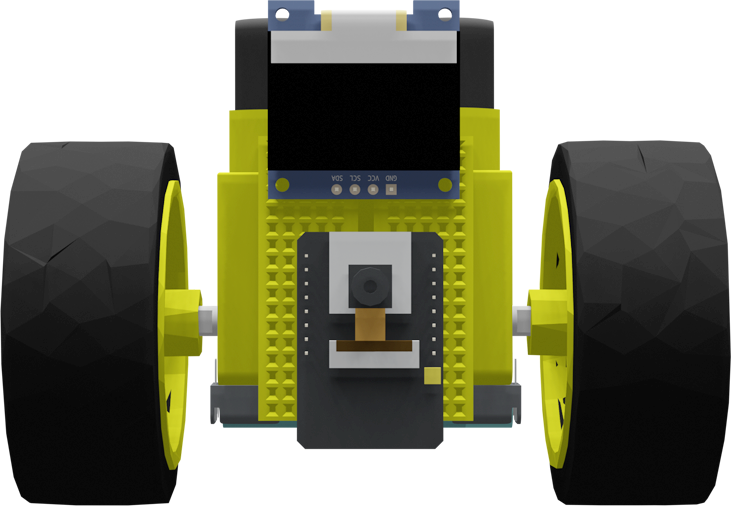
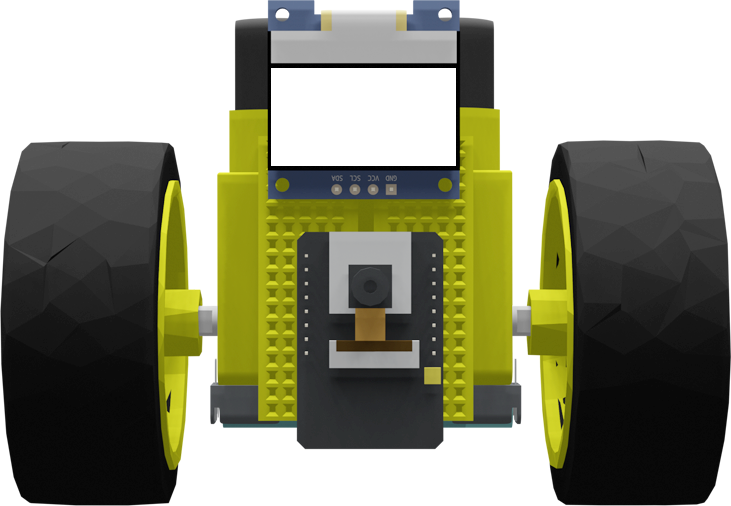
front-end: add screen

Changed region(s): [[0.3611, 0.1186, 0.632, 0.3261]]

diff --git a/front-end/index.html b/front-end/index.html
@@ -8,13 +8,18 @@
     <link rel="stylesheet" href="https://cdnjs.cloudflare.com/ajax/libs/meyer-reset/2.0/reset.min.css">
 	<link rel="stylesheet" href="https://maxcdn.bootstrapcdn.com/font-awesome/4.4.0/css/font-awesome.min.css">
 	<link rel="stylesheet" href="style.css">
+    <script src="script.js"></script>
 </head>
 <body>
     <section class="container">
         <div id="left-side">
             <div class="info">
                 <h1>Byte</h1>
-                <img class="image" src="render.png">
+                <div>
+                    <div class="screen" id="robot-screen"></div>
+                    <img class="image" id="robot-image" src="render.png">
+                </div>
+                <div class="shadow"></div>
             </div>
         </div>
         <div id="right-side">
@@ -39,13 +44,13 @@
                 </div>
                 <div class="chat-message message-list">
                     <button class="button voice">
-                        <svg width="50px" height="50px" viewBox="0 0 256 256">
+                        <svg width="50px" height="50px" viewBox="0 0 256 256" class="svg-button">
                             <path fill="#FFFFFF" d="M79.99414,127.99609v-64a48,48,0,1,1,96,0v64.00782a48,48,0,0,1-96-.00782Zm120.4375.05469a8.07828,8.07828,0,0,0-8.82812,7.07813,64.00856,64.00856,0,0,1-127.21875-.00782,8.09865,8.09865,0,0,0-8.82813-7.07031,8.01056,8.01056,0,0,0-7.07812,8.83594A79.60051,79.60051,0,0,0,119.99414,207.251v24.74511a8,8,0,1,0,16,0V207.252a79.577,79.577,0,0,0,71.51563-70.373A8.00321,8.00321,0,0,0,200.43164,128.05078Z"/>
                         </svg>
                     </button>
                     <textarea name="message-to-send" id="message-to-send" rows="3"></textarea>
                     <button class="button send">
-                        <svg width="50px" height="50px" viewBox="0 0 512 512">
+                        <svg width="50px" height="50px" viewBox="0 0 512 512" class="svg-button">
                             <path fill="#FFFFFF" d="M476.59,227.05l-.16-.07L49.35,49.84A23.56,23.56,0,0,0,27.14,52,24.65,24.65,0,0,0,16,72.59V185.88a24,24,0,0,0,19.52,23.57l232.93,43.07a4,4,0,0,1,0,7.86L35.53,303.45A24,24,0,0,0,16,327V440.31A23.57,23.57,0,0,0,26.59,460a23.94,23.94,0,0,0,13.22,4,24.55,24.55,0,0,0,9.52-1.93L476.4,285.94l.19-.09a32,32,0,0,0,0-58.8Z"/>
                         </svg>
                     </button>

diff --git a/front-end/style.css b/front-end/style.css
@@ -1,6 +1,13 @@
 @import url(https://fonts.googleapis.com/css?family=Lato:300,400);
 @import url('https://fonts.googleapis.com/css2?family=IBM+Plex+Mono:wght@500&display=swap');
 
+:root{
+  --screen-top: 0px;
+  --screen-left: 0px;
+  --screen-width: 0px;
+  --screen-height: 0px;
+}
+
 *, *:before, *:after {
   box-sizing: border-box;
 }
@@ -44,6 +51,7 @@ body {
 
 .chat {
   width: 35vw;
+  min-width: 360px;
   float: left;
   background: #1E1E1E;
   border-radius: 50px;
@@ -63,6 +71,7 @@ body {
 .chat .chat-history .message-time {
   color: #a8aab1;
   padding-left: 6px;
+  padding-right: 3px;
 }
 
 .timestamp{
@@ -122,7 +131,7 @@ body {
 }
 
 .button{
-  width: 20%;
+  width: 80px;
   border: none;
   border-radius: 20px;
   padding: 10px 20px;
@@ -137,6 +146,7 @@ body {
 .send{
   background-color: #FFF851;
 }
+
 .align-left {
   text-align: left;
 }
@@ -148,7 +158,6 @@ body {
 .float-right {
   float: right;
   text-align: right;
-  
 }
 
 .message-list:after {
@@ -169,11 +178,37 @@ body {
 }
 
 .image {
-  margin-top: 3vh;
-  width: 35vw
+  width: 35vw;
+  min-width: 300px;
 }
 
 h1 {
   color: #FFF72E;
   font: 20vh "IBM Plex Mono";
+}
+
+.voice, .send{
+  display: flex;
+  justify-content: center;
+  align-items: center;
+}
+
+.shadow {
+  width: 36vw;
+  height: 20vh;
+  background: #181818;
+  box-shadow: 0px 4px 28px 25px rgba(0, 0, 0, 0.25);
+  margin-top:-13vh;
+  border-radius: 50%;
+  z-index: -2;
+}
+
+.screen{
+  z-index: -1;
+  width: var(--screen-width);
+  height: var(--screen-height);
+  background: red;
+  position: absolute; 
+  left: var(--screen-left);
+  top: var(--screen-top);
 }

diff --git a/front-end/script.js b/front-end/script.js
@@ -1,0 +1,14 @@
+function updateScreen() {
+    var image = document.getElementById('robot-image')
+    var imagepos = image.getBoundingClientRect();
+    var root = document.querySelector(':root');
+    root.style.setProperty('--screen-top', (imagepos.top+image.offsetHeight/7.6)+'px');
+    root.style.setProperty('--screen-left', (imagepos.left+image.offsetWidth/2.70)+'px');
+    root.style.setProperty('--screen-height', (image.offsetHeight/4.95)+'px');
+    root.style.setProperty('--screen-width', (image.offsetWidth/3.88)+'px');
+}
+
+window.onload = updateScreen;
+window.addEventListener('resize', function(event){
+    updateScreen()
+});
